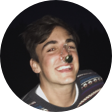
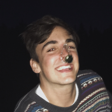
1.4
1.4

diff --git a/style.css b/style.css
@@ -24,17 +24,8 @@ div {
     padding: 60px 20px 60px 20px;
 }
 
-a:link {
-    color: #BBC5D7;
-    font-family: 'Lato', sans-serif;
-    font-size: 14px;
-    font-weight: normal;
-    text-decoration: none;
-    -o-transition: .2s;
-    -ms-transition: .2s;
-    -moz-transition: .2s;;
-    -webkit-transition: .2s;
-    transition: .2s;
+.img-circle {
+    border-radius: 50%;
 }
 
 h1 {
@@ -60,6 +51,19 @@ h2 {
 h3 {
     padding-top: 8px;
     margin: 0;
+}
+
+a:link {
+    color: #BBC5D7;
+    font-family: 'Lato', sans-serif;
+    font-size: 14px;
+    font-weight: normal;
+    text-decoration: none;
+    -o-transition: .2s;
+    -ms-transition: .2s;
+    -moz-transition: .2s;;
+    -webkit-transition: .2s;
+    transition: .2s;
 }
 
 a:link {

diff --git a/index.html b/index.html
@@ -13,7 +13,7 @@
     <body>
         <div class="container">
             <div>
-                <img src="Avatar.png">
+                <img class="img-circle" src="Avatar.png">
                 <h1>Oskar Hibbert</h1>
                 <h2>Graphic Designer —<br>Originally from Amsterdam, currently based in Copenhagen</h2>
                 <h3><a href="mailto:contact@oskarhibbert.com">contact@oskarhibbert.com</a></h3>
